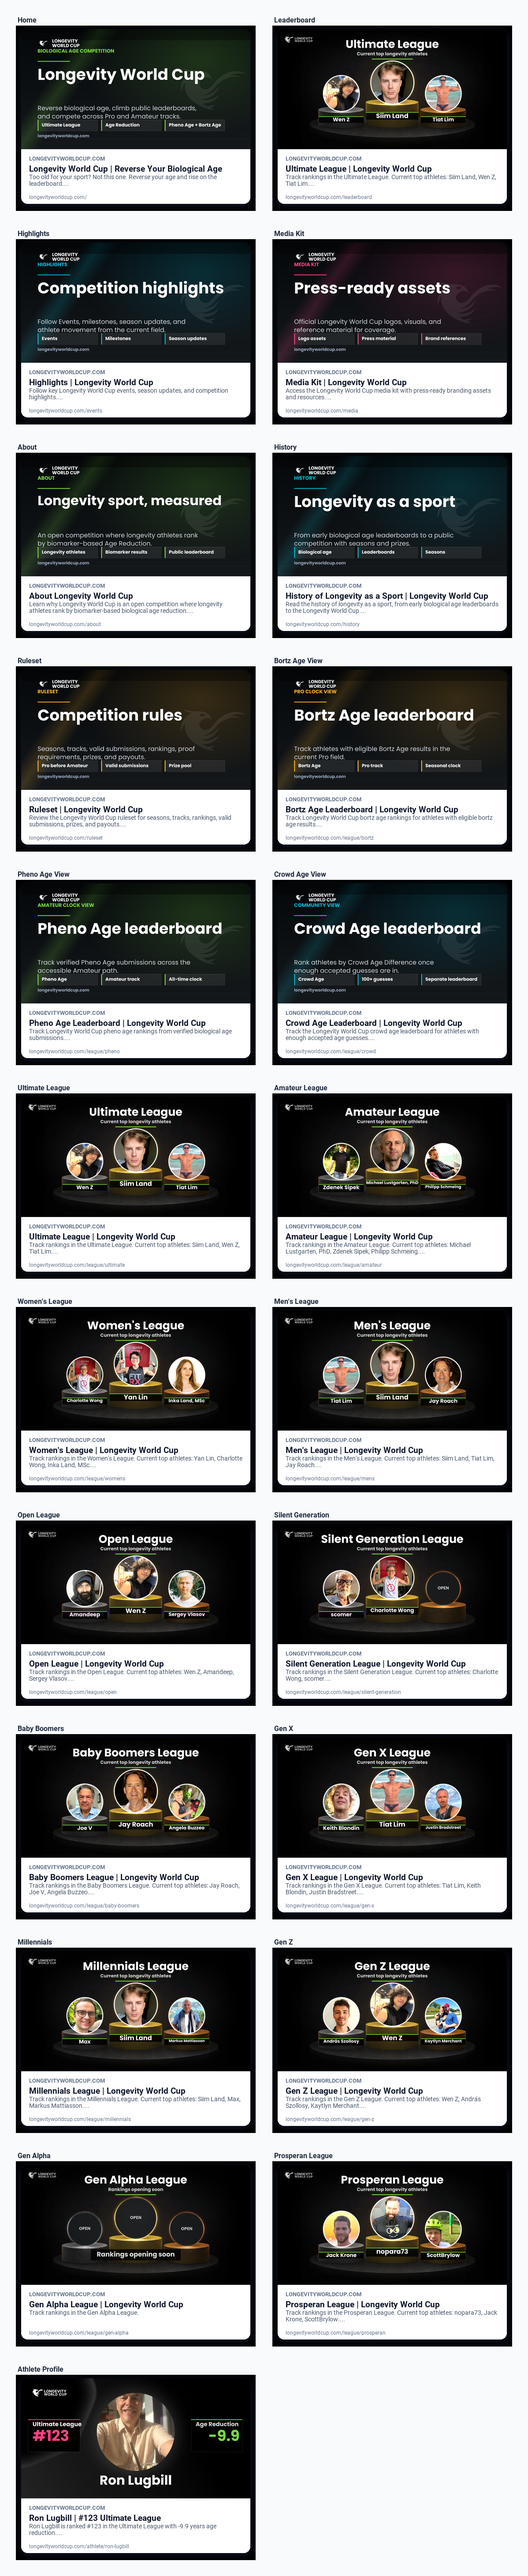
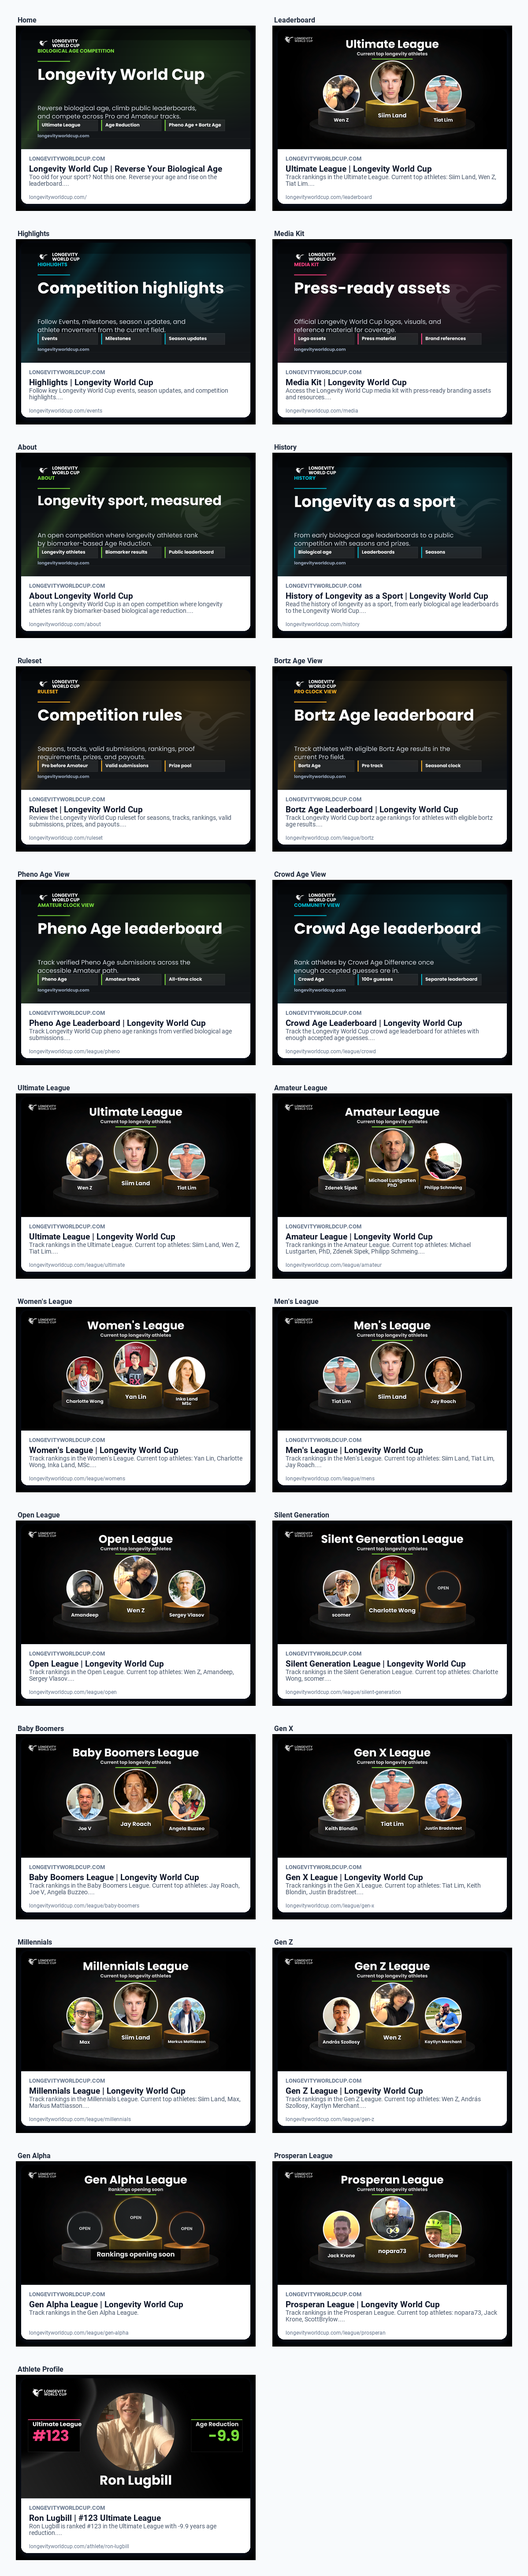
Polish podium name labels

Changed region(s): [[0.2162, 0.6859, 0.278, 0.717]]

diff --git a/LongevityWorldCup.Website/Business/LeagueOgImageService.cs b/LongevityWorldCup.Website/Business/LeagueOgImageService.cs
@@ -22,7 +22,6 @@ public sealed class LeagueOgImageService
     private static readonly Color LeagueSubtitleColor = new(new Rgba32(255, 255, 255, 205));
     private static readonly Color AccentColor = ParseHex("78DA3B");
     private static readonly Color NameLabelColor = Color.White;
-    private static readonly Color NameLabelPanelColor = new(new Rgba32(0, 0, 0, 208));
     private static readonly Color NameLabelShadowColor = new(new Rgba32(0, 0, 0, 210));
     private static readonly Color EmptySlotFillColor = new(new Rgba32(18, 21, 23, 218));
     private static readonly Color EmptySlotTextColor = new(new Rgba32(255, 255, 255, 190));
@@ -87,6 +86,7 @@ public sealed class LeagueOgImageService
         string Signature);
 
     private readonly record struct Slot(int CenterX, int CenterY, int Diameter);
+    private sealed record NameLayout(Font Font, IReadOnlyList<string> Lines);
 
     public bool IsConfigured => File.Exists(_templatePath) && File.Exists(_fontPath);
 
@@ -336,42 +336,43 @@ public sealed class LeagueOgImageService
         var secondName = top3Names.Count > 1 ? top3Names[1] : "";
         var thirdName = top3Names.Count > 2 ? top3Names[2] : "";
 
-        // Approx podium front-face widths for labels.
-        const float centerMaxWidth = 240f;
-        const float sideMaxWidth = 200f;
-
-        var firstFont = FitFontToWidth(fontFamily, firstName, 34f, 22f, centerMaxWidth);
-        var secondFont = FitFontToWidth(fontFamily, secondName, 28f, 19f, sideMaxWidth);
-        var thirdFont = FitFontToWidth(fontFamily, thirdName, 28f, 19f, sideMaxWidth);
-
-        // Figma y positions:
-        // center label top: 444
-        // side labels top: 466
-        DrawCenteredLabel(image, firstName, firstFont, PodiumSlots[0].CenterX, 438f, centerMaxWidth + 34f);
-        DrawCenteredLabel(image, secondName, secondFont, PodiumSlots[1].CenterX, 460f, sideMaxWidth + 34f);
-        DrawCenteredLabel(image, thirdName, thirdFont, PodiumSlots[2].CenterX, 460f, sideMaxWidth + 34f);
+        DrawPodiumNameLabel(image, firstName, fontFamily, PodiumSlots[0].CenterX, 438f, 248f, 30f, 20f);
+        DrawPodiumNameLabel(image, secondName, fontFamily, PodiumSlots[1].CenterX, 464f, 198f, 25f, 17f);
+        DrawPodiumNameLabel(image, thirdName, fontFamily, PodiumSlots[2].CenterX, 464f, 198f, 25f, 17f);
     }
 
-    private static void DrawCenteredLabel(Image<Rgba32> image, string text, Font font, float centerX, float topY, float panelWidth)
+    private static void DrawPodiumNameLabel(
+        Image<Rgba32> image,
+        string text,
+        FontFamily fontFamily,
+        float centerX,
+        float topY,
+        float maxWidth,
+        float startSize,
+        float minSize)
     {
         if (string.IsNullOrWhiteSpace(text))
             return;
 
-        var textSize = TextMeasurer.MeasureSize(text, new RichTextOptions(font));
-        var panelHeight = Math.Max(34f, textSize.Height + 12f);
-        var panelX = centerX - (panelWidth / 2f);
-        var panelY = topY - 4f;
+        var layout = BuildNameLayout(text, fontFamily, maxWidth, startSize, minSize);
+        var lineHeight = layout.Font.Size * 1.02f;
+        var totalHeight = lineHeight * layout.Lines.Count;
+        var y = topY - Math.Max(0f, (totalHeight - lineHeight) / 2f);
+
         image.Mutate(ctx =>
         {
-            ctx.Fill(NameLabelPanelColor, new RectangularPolygon(panelX, panelY, panelWidth, panelHeight));
-            ctx.Fill(AccentColor, new RectangularPolygon(panelX, panelY, panelWidth, 3f));
-            DrawTextShadow(ctx, text, font, new PointF(centerX, topY), HorizontalAlignment.Center, NameLabelShadowColor, 2f);
-            ctx.DrawText(new RichTextOptions(font)
+            foreach (var line in layout.Lines)
             {
-                Origin = new PointF(centerX, topY),
-                HorizontalAlignment = HorizontalAlignment.Center,
-                VerticalAlignment = VerticalAlignment.Top
-            }, text, NameLabelColor);
+                DrawNameTextShadow(ctx, line, layout.Font, new PointF(centerX, y));
+                ctx.DrawText(new RichTextOptions(layout.Font)
+                {
+                    Origin = new PointF(centerX, y),
+                    HorizontalAlignment = HorizontalAlignment.Center,
+                    VerticalAlignment = VerticalAlignment.Top
+                }, line, NameLabelColor);
+
+                y += lineHeight;
+            }
         });
     }
 
@@ -386,7 +387,7 @@ public sealed class LeagueOgImageService
         const float panelY = 442f;
         image.Mutate(ctx =>
         {
-            ctx.Fill(NameLabelPanelColor, new RectangularPolygon(panelX, panelY, panelWidth, panelHeight));
+            ctx.Fill(new Rgba32(0, 0, 0, 208), new RectangularPolygon(panelX, panelY, panelWidth, panelHeight));
             DrawTextShadow(ctx, text, font, new PointF(CanvasWidth / 2f, panelY + ((panelHeight - textSize.Height) / 2f)), HorizontalAlignment.Center, NameLabelShadowColor, 2f);
             ctx.DrawText(new RichTextOptions(font)
             {
@@ -442,6 +443,113 @@ public sealed class LeagueOgImageService
         }
 
         return family.CreateFont(minSize, FontStyle.Bold);
+    }
+
+    private static NameLayout BuildNameLayout(string text, FontFamily family, float maxWidth, float startSize, float minSize)
+    {
+        var normalized = string.Join(" ", text.Split(' ', StringSplitOptions.RemoveEmptyEntries));
+        var forcedLines = TrySplitCommaName(normalized);
+        if (forcedLines is not null)
+            return BuildMultilineNameLayout(forcedLines, family, maxWidth, startSize, minSize);
+
+        for (var size = startSize; size >= minSize; size -= 1f)
+        {
+            var font = family.CreateFont(size, FontStyle.Bold);
+            if (TextMeasurer.MeasureSize(normalized, new RichTextOptions(font)).Width <= maxWidth)
+                return new NameLayout(font, [normalized]);
+        }
+
+        var lines = SplitNameIntoLines(normalized);
+        return BuildMultilineNameLayout(lines, family, maxWidth, startSize, minSize);
+    }
+
+    private static NameLayout BuildMultilineNameLayout(IReadOnlyList<string> lines, FontFamily family, float maxWidth, float startSize, float minSize)
+    {
+        for (var size = startSize - 2f; size >= minSize; size -= 1f)
+        {
+            var font = family.CreateFont(size, FontStyle.Bold);
+            if (lines.All(line => TextMeasurer.MeasureSize(line, new RichTextOptions(font)).Width <= maxWidth))
+                return new NameLayout(font, lines);
+        }
+
+        var fallbackFont = family.CreateFont(minSize, FontStyle.Bold);
+        return new NameLayout(fallbackFont, lines.Select(line => TruncateToWidth(line, fallbackFont, maxWidth)).ToArray());
+    }
+
+    private static IReadOnlyList<string>? TrySplitCommaName(string text)
+    {
+        var comma = text.IndexOf(',');
+        if (comma > 0 && comma < text.Length - 1)
+        {
+            return
+            [
+                text[..comma].Trim(),
+                text[(comma + 1)..].Trim()
+            ];
+        }
+
+        return null;
+    }
+
+    private static IReadOnlyList<string> SplitNameIntoLines(string text)
+    {
+        var commaLines = TrySplitCommaName(text);
+        if (commaLines is not null)
+            return commaLines;
+
+        var words = text.Split(' ', StringSplitOptions.RemoveEmptyEntries);
+        if (words.Length <= 1)
+            return [text];
+
+        var midpoint = text.Length / 2f;
+        var bestIndex = 1;
+        var bestDistance = float.MaxValue;
+        var lengthSoFar = 0;
+        for (var i = 1; i < words.Length; i++)
+        {
+            lengthSoFar += words[i - 1].Length + (i == 1 ? 0 : 1);
+            var distance = Math.Abs(lengthSoFar - midpoint);
+            if (distance >= bestDistance)
+                continue;
+
+            bestDistance = distance;
+            bestIndex = i;
+        }
+
+        return
+        [
+            string.Join(" ", words.Take(bestIndex)),
+            string.Join(" ", words.Skip(bestIndex))
+        ];
+    }
+
+    private static string TruncateToWidth(string text, Font font, float maxWidth)
+    {
+        if (TextMeasurer.MeasureSize(text, new RichTextOptions(font)).Width <= maxWidth)
+            return text;
+
+        var trimmed = text;
+        while (trimmed.Length > 0 && TextMeasurer.MeasureSize(trimmed + "...", new RichTextOptions(font)).Width > maxWidth)
+            trimmed = trimmed[..^1].TrimEnd();
+
+        return string.IsNullOrWhiteSpace(trimmed) ? "..." : trimmed + "...";
+    }
+
+    private static void DrawNameTextShadow(IImageProcessingContext ctx, string text, Font font, PointF origin)
+    {
+        var options = new RichTextOptions(font)
+        {
+            Origin = new PointF(origin.X, origin.Y + 3f),
+            HorizontalAlignment = HorizontalAlignment.Center,
+            VerticalAlignment = VerticalAlignment.Top
+        };
+        ctx.DrawText(options, text, new Rgba32(0, 0, 0, 235));
+
+        options.Origin = new PointF(origin.X + 1.5f, origin.Y + 1.5f);
+        ctx.DrawText(options, text, new Rgba32(0, 0, 0, 170));
+
+        options.Origin = new PointF(origin.X - 1.5f, origin.Y + 1.5f);
+        ctx.DrawText(options, text, new Rgba32(0, 0, 0, 150));
     }
 
     private static void DrawCircularProfile(Image<Rgba32> target, Image<Rgba32> source, Slot slot)
@@ -519,7 +627,7 @@ public sealed class LeagueOgImageService
         var top3ProfileTicks = top3Slugs.Select(GetProfileTicks).ToArray();
 
         var raw = string.Join("|",
-            "league-og-v24",
+            "league-og-v26",
             leagueSlug,
             leagueDisplayName,
             string.Join(",", top3Slugs),
